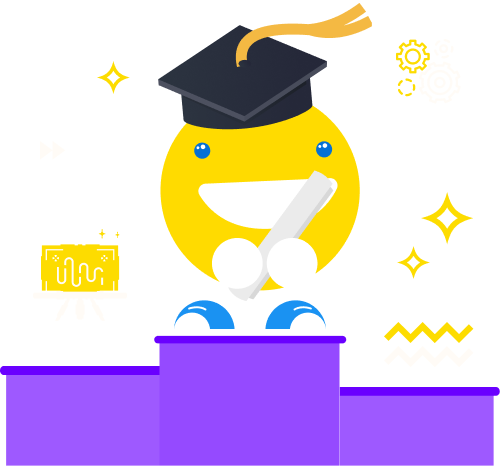
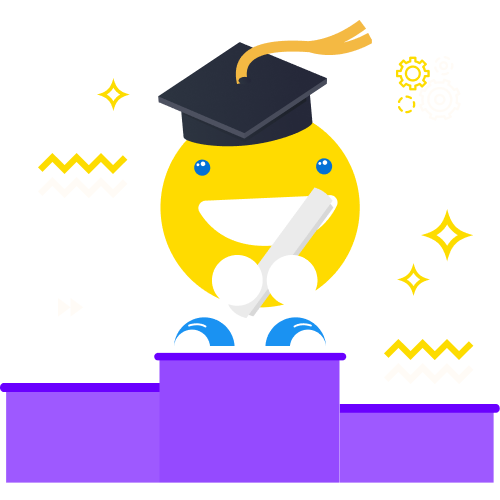
fix : illustrasi page

diff --git a/components/templates/hero/index.jsx b/components/templates/hero/index.jsx
@@ -41,7 +41,7 @@ const Hero = props => {
                                         <Icon name="instagram" multiplier={1} />
                                     </div>
                                     <Link href="https://www.instagram.com/peopleattiket/">
-                                        <a> @peopleattiket</a>
+                                        <a target="_blank"> @peopleattiket</a>
                                     </Link>
                                 </ContainerFlex>
                             </div>
@@ -50,8 +50,11 @@ const Hero = props => {
                                     <div className="p-r-1">
                                         <Icon name="browser" multiplier={1} />
                                     </div>
-                                    <Link href="https://www.learningtiket.com">
-                                        <a> www.learningtiket.com</a>
+                                    <Link href="https://www.learningattiket.com">
+                                        <a target="_blank">
+                                            {' '}
+                                            www.learningattiket.com
+                                        </a>
                                     </Link>
                                 </ContainerFlex>
                             </div>
@@ -63,8 +66,10 @@ const Hero = props => {
                                             multiplier={1.25}
                                         />
                                     </div>
-                                    <Link href="https://www.instagram.com/peopleattiket/">
-                                        <a> People at Tiket</a>
+                                    <Link
+                                        href="https://www.youtube.com/c/tiket"
+                                        target="_blank">
+                                        <a target="_blank"> People at Tiket</a>
                                     </Link>
                                 </ContainerFlex>
                             </div>
@@ -72,7 +77,7 @@ const Hero = props => {
                     </div>
                     <div className={cx(styles.item, styles.illu)}>
                         <Image
-                            src={'/images/hero_tman.png'}
+                            src={'/images/hero_tiket.png'}
                             width="500"
                             height="500"
                         />

diff --git a/components/organisms/card-event/index.jsx b/components/organisms/card-event/index.jsx
@@ -31,7 +31,7 @@ const CardEvent = ({ banner, event, variant, cta, label }) => {
     return (
         <div className={cx(styles.cardevent, contentDirection)}>
             <div className={styles.cardevent_illu}>
-                <Image src={banner} width={1200} height={600} />
+                <Image src={banner} width={300} height={168} />
             </div>
             <div className={styles.cardevent_event}>
                 {/* <div style={label.style}>{label.category}</div> */}

diff --git a/components/templates/schedule/index.jsx b/components/templates/schedule/index.jsx
@@ -24,7 +24,7 @@ const Schedule = ({ events, getEvents, type }) => {
                             content: val.description,
                             // date: '3 Desember 2021, 15.00 - 17:00',
                         }}
-                        cta={[{ title: 'Gabung', url: 'https://google.com' }]}
+                        cta={val.actions}
                         variant={'column'}
                         label={{
                             category: 'Webinar',

diff --git a/components/molecules/label/index.jsx b/components/molecules/label/index.jsx
@@ -52,7 +52,7 @@ const Label = ({ title, description, size, variant, headline, style }) => {
 
     return (
         <div className={cx(styles.label, sizeLabel, align)} style={{ style }}>
-            <h2 className={cx(sizeTitle, head)}>{title}</h2>
+            <h2 className={cx(sizeTitle, head, 'm-b-1')}>{title}</h2>
             <div dangerouslySetInnerHTML={{ __html: description }}></div>
         </div>
     )

diff --git a/components/templates/loginform/index.jsx b/components/templates/loginform/index.jsx
@@ -61,7 +61,7 @@ const LoginForm = ({ authLogin, authData }) => {
         <div className={styles.loginform}>
             <Label
                 title={'Sign in'}
-                description="<p>Please insert your Inspigo account information</p>"
+                description="<p>Please sign in with your registered account</p>"
             />
             <Input
                 label="Email"

diff --git a/components/molecules/appbar/index.jsx b/components/molecules/appbar/index.jsx
@@ -31,7 +31,7 @@ const Appbar = ({ activeSidebar, toggleSidebar }) => {
                         },
                         {
                             url: '#podcast',
-                            label: 'OndemandLearning',
+                            label: 'On-Demand Learning',
                         },
                         {
                             url: '#leaderboard',
